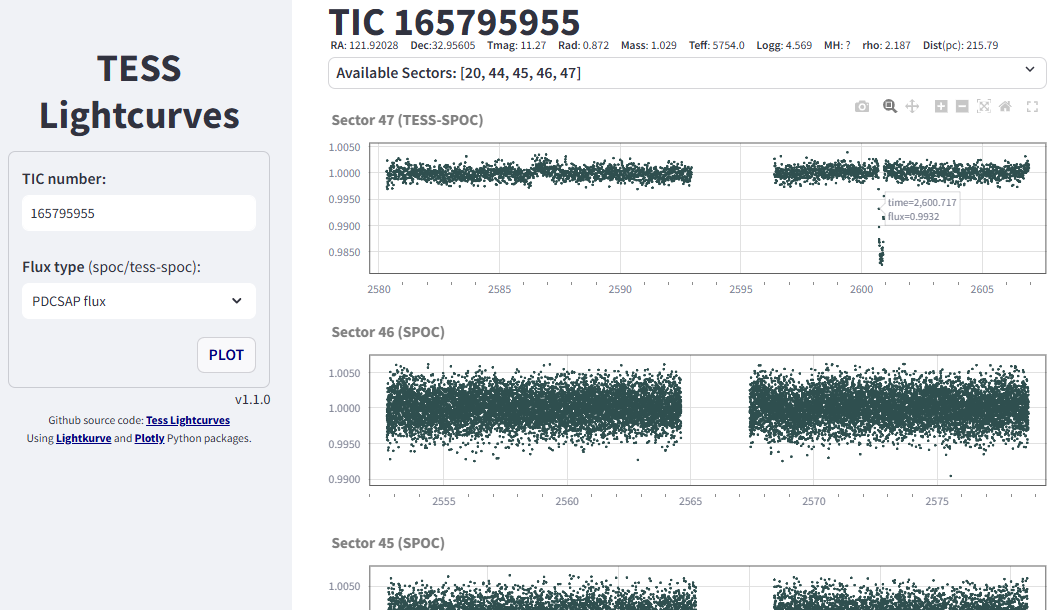
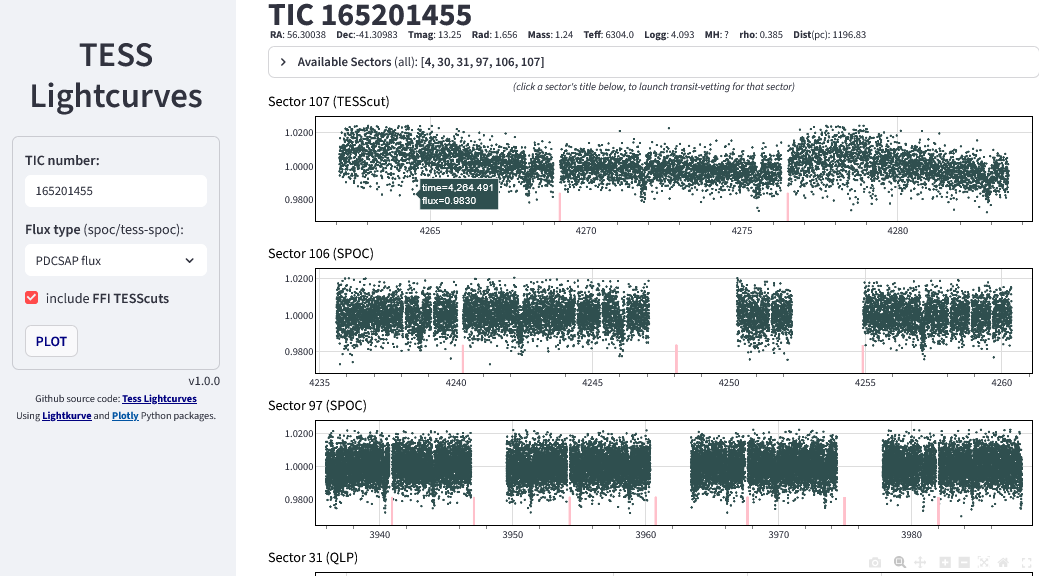
Version 2.1.0
In order to display light curves from TESScuts, the new option "include FFI TESScuts" must be checked.
The parameter 'tcut' can be added to the address line to start with that option checked, as in https://......./?tic=178155665&tcut

diff --git a/src/Tess_Lightcurves/Tess_Lightcurves.py b/src/Tess_Lightcurves/Tess_Lightcurves.py
@@ -18,6 +18,10 @@ def set_css():
 				font-size: 13px;
 				padding-bottom: 0.2rem;
 			}
+			.spc1{
+				font-size: 8px;
+				padding-bottom: 0.1rem;
+			}
 			.splash {
 				font-size: 0.85rem;
 				padding: 0;
@@ -102,7 +106,8 @@ def get_splash_text(mom_date):
 		<p class="splash">&#8226;&nbsp;&nbsp;For the selected TIC number, the lightcurve of each sector available on MAST, is displayed.</p>
 		<p class="splash">&#8226;&nbsp;&nbsp;If  more than one author is available for a single sector, the displayed lightcurve, in availability order, is:<br/>
 		&nbsp;&nbsp;&nbsp;&nbsp;&nbsp;&nbsp; SPOC (2 min) -> TESS-SPOC -> QLP -> ELEANOR -> TESScut.<br/>
-		&nbsp;&nbsp;&nbsp;Lightcurves obtained from the TESScuts are presented background subtracted. </p>
+		&nbsp;&nbsp;&nbsp;Lightcurves obtained from the TESScuts are presented background subtracted.<br/>
+		&nbsp;&nbsp;&nbsp;Option "include FFI TESScuts" must be checked to view them.</p>
 		<p class="splash">&#8226;&nbsp;&nbsp;It's possible to choose between PDCSAP and SAP flux (in SPOC and TESS-SPOC), and interact with the plots.</p>
 		<p class="splash">&#8226;&nbsp;&nbsp;Vertical red bars in the lightcurves mark the spacecraft momentum dumps. (<b>Last: {mdate}</b>)
 		</p>
@@ -176,7 +181,7 @@ def get_catalog_mp(slist, TICstr):
 	linha = get_catalog(TICstr)
 	slist.append(linha)
 
-@st.cache_data(ttl='1d', show_spinner=False)
+@st.cache_data(ttl='1D', show_spinner=False)
 def get_search_result(TICstr):
 	ph2 = st.empty()
 	with ph2:
@@ -188,7 +193,7 @@ def get_search_result(TICstr):
 	ph2.empty()
 	return res1
 
-@st.cache_data(ttl='1d', show_spinner=False)
+@st.cache_data(ttl='1D', show_spinner=False)
 def get_tesscut_result(TICstr):
 	ph2 = st.empty()
 	with ph2:
@@ -257,7 +262,7 @@ def get_line(TICstr):
 					st.html('<div class="spc">&nbsp;</i></div>')
 	return ph
 
-@st.cache_resource(ttl='1d')
+@st.cache_resource(ttl='1D')
 def load_mdumps():
 	if 'mdumps' in st.session_state:
 		mdumps = st.session_state.mdumps
@@ -330,11 +335,17 @@ if __name__ == '__main__':
 					ticid = int(tic)
 				except ValueError:
 					ticid=0
-			st.html('&nbsp;')
+			st.html('<div class="spc1">&nbsp;</div>')
 			tipo = st.selectbox(
 				'**Flux type** (spoc/tess-spoc):',
 				('PDCSAP flux', 'SAP flux')
 			)
+			st.html('<div class="spc1">&nbsp;</div>')
+			try:
+				x = st.query_params.tcut #  ?tic=165795955
+				tcut = st.checkbox("include **FFI TESScuts**", value=True)
+			except:
+				tcut = st.checkbox("include **FFI TESScuts**")
 			st.html('<div class="credits">&nbsp;</div>')
 			st.form_submit_button('**PLOT**')
 		st.html('<div align="right">v'+__version__+'</div>')
@@ -370,29 +381,37 @@ if __name__ == '__main__':
 		#
 		if len(res1) == 0:
 			df1 = pd.DataFrame()
+			get_search_result.clear(TICstr)
 			if res1=='':
 				st.error('Error in lk.search_lightcurve... Try again.')
 				exit_mp()
 				st.stop()
-			get_search_result.clear(TICstr)
-		else:
-			df1 = res1.table.to_pandas()
-		res2 = get_tesscut_result(TICstr)
-		if len(res2) == 0:
-			df2 = pd.DataFrame()
-			get_tesscut_result.clear(TICstr)
-			if res2=='':
-				st.error('Error in lk.search_tesscut... Try again.')
-				exit_mp()
-				st.stop()
 			else:
-				if len(res1) == 0:
-					st.error('No available lightcurves from SPOC, TESS_SPOC, QLP, ELEANOR or TESScut.')
+				if not tcut:
+					st.error('No available lightcurves from SPOC, TESS_SPOC, QLP, or ELEANOR.')
 					exit_mp()
 					st.stop()
 		else:
-			df2 = res2.table.to_pandas()
-		df = pd.concat([df1, df2], ignore_index=False)
+			df1 = res1.table.to_pandas()
+		if tcut:
+			res2 = get_tesscut_result(TICstr)
+			if len(res2) == 0:
+				df2 = pd.DataFrame()
+				get_tesscut_result.clear(TICstr)
+				if res2=='':
+					st.error('Error in lk.search_tesscut... Try again.')
+					exit_mp()
+					st.stop()
+				else:
+					if len(res1) == 0:
+						st.error('No available lightcurves from SPOC, TESS_SPOC, QLP, ELEANOR or TESScut.')
+						exit_mp()
+						st.stop()
+			else:
+				df2 = res2.table.to_pandas()
+			df = pd.concat([df1, df2], ignore_index=False)
+		else:
+			df = df1
 		authors = ['SPOC', 'TESS-SPOC', 'QLP', 'GSFC-ELEANOR-LITE', 'TESScut']
 		sectors = df[(df['author'].isin(authors)) & (df['exptime'] > 100)]['sequence_number'].drop_duplicates().sort_values().to_list()
 		if sectors == []:
@@ -410,14 +429,19 @@ if __name__ == '__main__':
 					secs_auth[auth].append(s)
 					if s not in d:
 						d[s] = [idx[0], auth]
-
-		txt = '**Available Sectors: ' + str(sectors) + '**'
+		if tcut:
+			txt = '**Available Sectors** (all): **' + str(sectors) + '**'
+		else:
+			txt = '**Available Sectors** (w/o FFIs): **' + str(sectors) + '**'
 		with st.expander(txt):
 			table = '<table><tr><td>SPOC: </td><td>'+ str(secs_auth[0]) + '</td></tr>' +\
 				'<tr><td>TESS-SPOC: </td><td>'+ str(secs_auth[1]) + '</td></tr>' +\
 				'<tr><td>QLP: </td><td>'+ str(secs_auth[2]) + '</td></tr>' +\
-				'<tr><td>ELEANOR: </td><td>'+ str(secs_auth[3]) + '</td></tr>' +\
-				'<tr><td>TESScut: </td><td>'+ str(secs_auth[4]) + '</td></tr></table>'
+				'<tr><td>ELEANOR: </td><td>'+ str(secs_auth[3]) + '</td></tr>'
+			if tcut:
+				table += '<tr><td>TESScut: </td><td>'+ str(secs_auth[4]) + '</td></tr></table>'
+			else:
+				table += '</table>'
 			st.html(table)
 		maxlen = 8
 		revsectors = sectors.reverse()

diff --git a/src/Tess_Lightcurves/version.py b/src/Tess_Lightcurves/version.py
@@ -1,1 +1,1 @@
-__version__ = "2.0.1"
+__version__ = "2.1.0"

diff --git a/README.md b/README.md
@@ -11,8 +11,8 @@ The app will open in the default browser
 
 For a selected TIC number, the lightcurve of each sector available on MAST, is displayed.
 If  more than one author is available for a single sector, the displayed lightcurve, in availability order, is:
-&nbsp;&nbsp; SPOC (2 min) -> TESS-SPOC -> QLP -> ELEANOR.
-Since version 2, for sectors only available in Full Frame Images, a lightcurve is displayed after extracting an 11x11 TESScut from the FFI, converting it and performing a basic background subtraction.
+&nbsp;&nbsp; SPOC (2 min) -> TESS-SPOC -> QLP -> ELEANOR -> TESScut.<br/>
+Since version 2, for sectors only available in Full Frame Images, a lightcurve is displayed after extracting an 11x11 TESScut from the FFI, converting it and performing a basic background subtraction. *(Option "include FFI TESScuts" must be checked)*
 
 The user can choose between PDCSAP and SAP flux (for SPOC and TESS-SPOC), and can interact with the plots (thx to [Plotly](https://github.com/plotly/plotly.py) python library)
 
